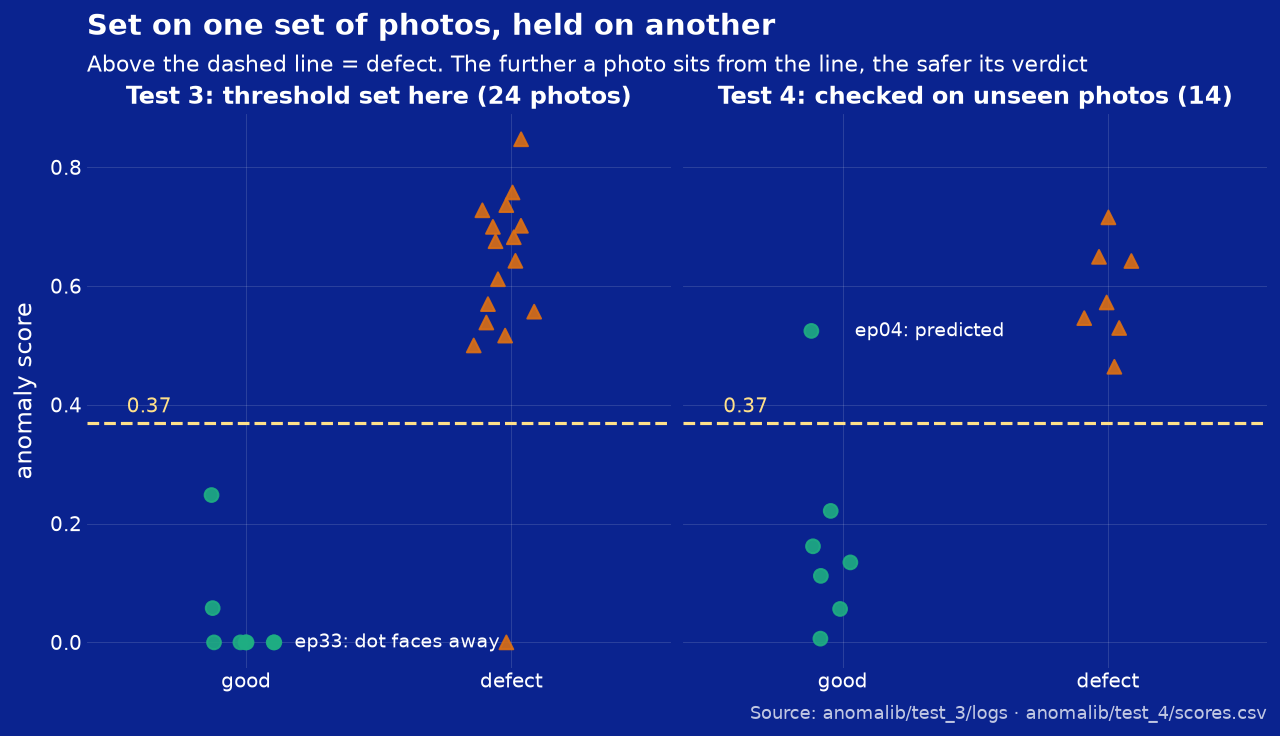
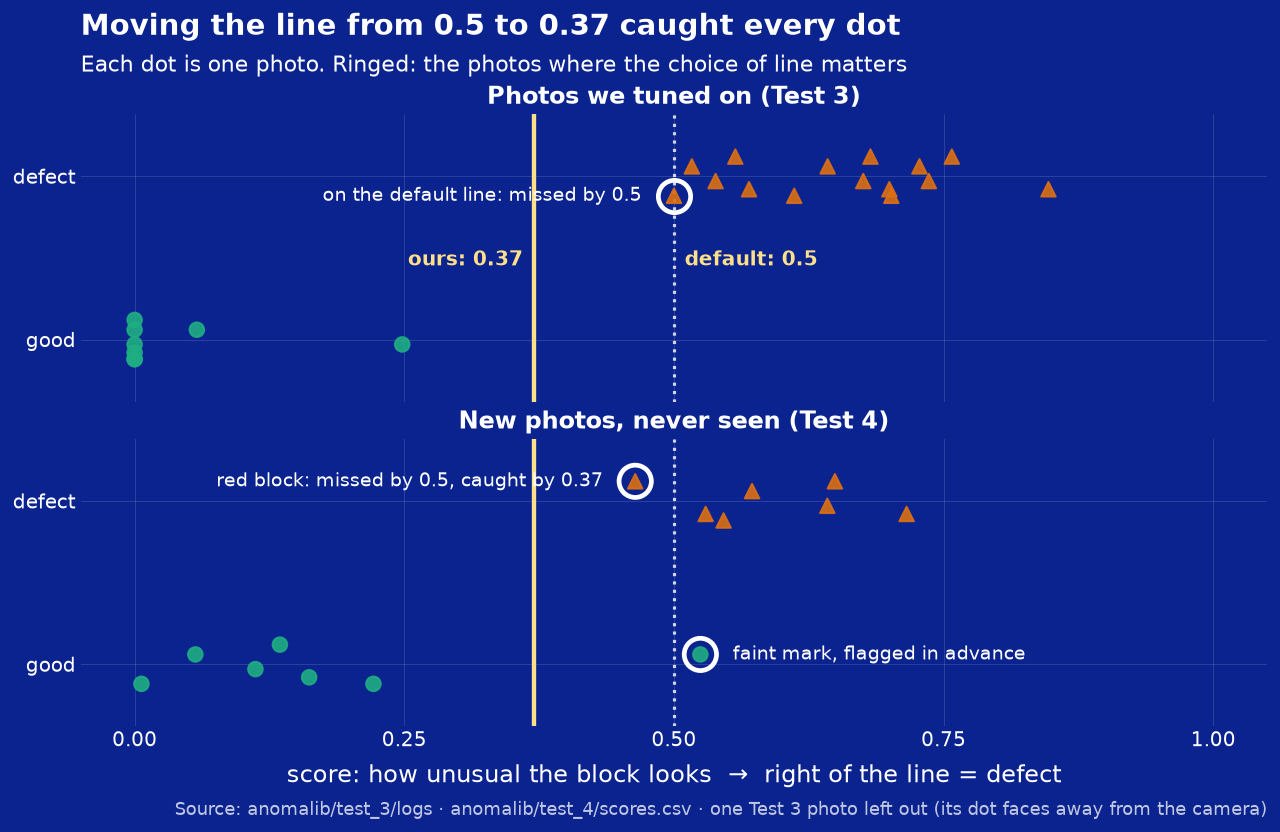
feat(docs): pitch-first Anomaly Scores page, threshold explained plainly
Journey tiles lead with the question. Camera choice becomes three camera
cards with one verdict each. The threshold section is four plain-English
expandable parts and one chart comparing Anomalib's default line (0.5)
with ours (0.37): the default misses a dot in both sets, ours catches
all of them. The held-out section leads with how the line was locked
before scoring. Limits and the ep05 story move to the Reflection page.

diff --git a/docs/detection.html b/docs/detection.html
@@ -14,25 +14,25 @@
 
   <!-- The journey: four tests, each answering one question -->
   <div class="journey">
-    <div class="step"><div class="tag">Baseline · Test 1</div><div class="q">Can it tell blocks apart?</div><div class="a">gap 0.044</div><div class="n">stand-in defect, claw camera, 24 photos</div></div>
-    <div class="step"><div class="tag">Baseline · Test 2.1</div><div class="q">Which camera?</div><div class="a">side +0.156</div><div class="n">claw camera's scores overlap</div></div>
-    <div class="step"><div class="tag">Stretch · Test 3</div><div class="q">Can it see a dot?</div><div class="a">gap 0.252</div><div class="n">15/15 visible dots, 8/8 good</div></div>
-    <div class="step"><div class="tag">Stretch · Test 4</div><div class="q">Does it hold on new photos?</div><div class="a">7/7 · 6/7</div><div class="n">dots caught · good passed, 14 unseen photos</div></div>
+    <div class="step"><div class="q">Can it tell blocks apart?</div><div class="a">gap 0.044</div><div class="n">stand-in defect, claw camera, 24 photos</div><div class="tag">Test 1 · baseline</div></div>
+    <div class="step"><div class="q">Which camera?</div><div class="a">side +0.156</div><div class="n">the claw camera's scores overlap</div><div class="tag">Test 2.1 · baseline</div></div>
+    <div class="step"><div class="q">Can it see a dot?</div><div class="a">gap 0.252</div><div class="n">15/15 visible dots, 8/8 good</div><div class="tag">Test 3 · stretch</div></div>
+    <div class="step"><div class="q">Does it hold on new photos?</div><div class="a">7/7 · 6/7</div><div class="n">dots caught · good passed, 14 unseen photos</div><div class="tag">Test 4 · stretch</div></div>
   </div>
 
   <!-- Headline: what the model sees -->
   <section class="panel">
     <h2>What the model sees</h2>
-    <p>Each tile is one block as the model sees it (left) and how unusual each part looks to the
-      model (right). Good blocks stay dark. The bright spot lands on the dot, including on a photo
-      the model had never seen.</p>
+    <p>Each tile shows one block as the model sees it (left) and how unusual each part looks to
+      the model (right). Good blocks stay dark. On a block with a dot, the bright spot lands right
+      on the dot, even on a photo the model had never seen.</p>
     <div class="heat">
-      <figure><img src="assets/charts/heat_good_ep25.png" alt="A green block with no dot; its heatmap is dark all over"><figcaption><b>Good block</b> · score 0.00 → passes</figcaption></figure>
-      <figure><img src="assets/charts/heat_small_dot_ep45.png" alt="A light green block with a small dot; the heatmap is bright exactly on the dot"><figcaption><b>Small dot</b> · score 0.73 → defect</figcaption></figure>
-      <figure><img src="assets/charts/heat_unseen_dot_v2_ep03.png" alt="An orange block with a dot, from the unseen Test 4 photos; the heatmap is bright on the dot"><figcaption><b>Unseen photo, dot</b> · score 0.64 → defect</figcaption></figure>
+      <figure><img src="assets/charts/heat_good_ep25.png" alt="A green block with no dot; its heatmap is dark all over"><figcaption><b>Good block</b> · score 0.00 → green bowl</figcaption></figure>
+      <figure><img src="assets/charts/heat_small_dot_ep45.png" alt="A light green block with a small dot; the heatmap is bright exactly on the dot"><figcaption><b>Small dot</b> · score 0.73 → pink bowl</figcaption></figure>
+      <figure><img src="assets/charts/heat_unseen_dot_v2_ep03.png" alt="An orange block with a dot, from the unseen Test 4 photos; the heatmap is bright on the dot"><figcaption><b>New photo, dot</b> · score 0.64 → pink bowl</figcaption></figure>
     </div>
     <div class="scale"><span>usual</span><img src="assets/charts/heat_scale.png" alt="Colour key from dark (usual) to bright yellow (unusual)"><span>unusual</span></div>
-    <p class="src">One fixed colour scale for every tile, so bright means the same thing in each. Model: PatchCore, Test 3 final.
+    <p class="src">Same colour scale for every tile, so bright means the same thing in each. Model: PatchCore, final version.
       Made by <code>scripts/make_heatmaps.py</code>.</p>
   </section>
 
@@ -105,64 +105,71 @@
 
   <section class="panel">
     <h2>Choosing the camera</h2>
-    <p>Before looking for dots, we tested all three cameras on the same blocks. The claw camera
-      mixed good and defect scores up; the side camera kept them apart, so the final model uses
-      the side camera.</p>
-    <img class="chart" src="assets/charts/cameras.png" alt="Dot plot of Test 2.1 scores for the claw, top and side cameras. On the claw camera one good photo scores above two defects; on the side camera every defect scores above every good photo.">
-  </section>
-
-  <section class="panel">
-    <h2>The threshold: where good ends and defect begins</h2>
-    <p><b>What it does.</b> The model gives every photo a score: near 0 means it looks like the
-      good blocks it learned from, and higher means stranger. The threshold is the single number
-      that turns a score into a decision. Above <b>0.37</b>, the block is a defect and goes to the
-      pink bowl. Everything the arm does after the photo depends on which side of that line the
-      score lands.</p>
-    <p><b>Why the middle is dangerous.</b> A score isn't fixed. Photograph the same block twice and
-      it moves a little: the light drifts, the camera's exposure changes, the block sits a millimetre
-      to one side. Far from the line, that wobble changes nothing. Close to the line, the same
-      wobble flips a good block to defect, or lets a dot through. So the goal isn't only to get
-      every test photo on the right side. It's to keep every photo <b>as far from the line as
-      possible</b>. Our measure is the distance from the line to the closest photo on each side.</p>
-    <p class="src">For the statistically minded: if the wobble is roughly normal with spread σ, a photo
-      a distance m from the line flips with probability Φ(−m/σ). That falls off faster than
-      exponentially, so doubling the margin more than halves the risk.</p>
-
-    <p><b>How we pushed scores away from the line.</b></p>
-    <ul>
-      <li><b>The camera:</b> the side camera, chosen above, because its scores didn't overlap.</li>
-      <li><b>The crop:</b> each photo is cut to the block alone (54 × 49 px), so the claw and the
-        background can't add noise.</li>
-      <li><b>Clean training data:</b> one "good" training photo, ep05, had a dot on it. It was
-        teaching the model that dots are normal. Removing it doubled the gap between the
-        closest good block and the closest defect, from 0.127 to 0.252.</li>
-      <li><b>Where the line goes:</b> halfway between the highest-scoring good block (0.248) and
-        the lowest-scoring defect (0.500), so each side gets the same margin, 0.126. Anomalib's
-        default of 0.5 sat exactly on a defect (ep34 scored 0.500), leaving it no margin at all.</li>
-    </ul>
-    <img class="chart" src="assets/charts/ep05.png" alt="Two panels of Test 3 scores, with and without ep05 in training. The empty band between the highest good score and the lowest defect score grows from 0.127 to 0.252.">
-
-    <p><b>Did we just fit the line to our own data?</b> Partly, yes: 0.37 was worked out from
-      Test 3's photos, so Test 3 can't prove it works. That's what Test 4 is for. We wrote down
-      the plan (photos, labels, the 0.37 threshold, and which photo we expected to cause trouble)
-      and committed it before scoring anything. Then we scored 14 photos the model had never seen,
-      once. Every dot was caught (7/7), and 6 of 7 good blocks passed. The closest defect sat 0.094
-      above the line; the closest passing good block, 0.149 below it.</p>
-    <img class="chart" src="assets/charts/threshold.png" alt="Two panels of scores with the 0.37 line. Left, Test 3: every visible defect above the line, every good block below. Right, Test 4: every defect above the line and one good block, ep04, just above it.">
-    <div class="heat">
-      <figure><img src="assets/charts/heat_false_alarm_ep04.png" alt="A yellow block labelled good; the heatmap is bright on a faint mark low on its face"><figcaption><b>The one miss, ep04</b> · labelled good, score 0.52. We flagged its faint mark before scoring; the model lit up on the same spot.</figcaption></figure>
-      <figure><img src="assets/charts/heat_highest_good_ep30.png" alt="An orange block with no dot; the heatmap is mildly warm along its base"><figcaption><b>Closest good block in Test 3, ep30</b> · score 0.25. The warmth is along the base, not on the face.</figcaption></figure>
+    <p>We gave all three cameras the same blocks and measured the <b>gap</b>: how far apart the
+      good and defect scores sit. Bigger is safer. Below zero means they overlap, so some good
+      blocks look worse than some defects.</p>
+    <div class="cams">
+      <figure class="cam"><img src="assets/img/cam_claw_cam.png" alt="The claw camera's view: a close-up from the gripper"><figcaption>Claw camera<span class="verdict bad">mixed up</span><span class="n">gap −0.32</span></figcaption></figure>
+      <figure class="cam"><img src="assets/img/cam_top_view.png" alt="The top camera's view of the table from above"><figcaption>Top camera<span class="verdict">+0.10</span><span class="n">apart</span></figcaption></figure>
+      <figure class="cam chosen"><img src="assets/img/cam_side_view.png" alt="The side camera's view of the block at table height"><figcaption>Side camera<span class="verdict">+0.16</span><span class="n">widest gap · chosen</span></figcaption></figure>
     </div>
-    <p class="src">Sources: <code>anomalib/test_3/findings.md</code>, <code>anomalib/test_4/PLAN.md</code>
-      (committed before scoring), <code>anomalib/test_4/findings.md</code>.</p>
+    <p class="src">Test 2.1: 5 good and 7 defect photos per camera · <code>anomalib/test_2/Test 2.1/findings.md</code></p>
   </section>
 
   <section class="panel">
-    <h2>Limits</h2>
-    <p>Small numbers: 24 photos in Test 3 and 14 in Test 4, so one photo moves a rate by 4 to 14
-      points. Every test ran offline on recorded photos. The final model was never run live on the
-      arm, and its speed was never measured on the robot's laptop. A dot on a face the side camera
-      can't see (ep33) can't be caught by any side-view model.</p>
+    <h2>The threshold: one line decides in or out</h2>
+    <details>
+      <summary><b>The threshold</b> · the line that decides if a block is in or out</summary>
+      <p>Every block gets one score. Below the line, it's good and goes to the green bowl. Above
+        the line, it's a defect and goes to the pink bowl. One number, one decision, and
+        everything the arm does next depends on it.</p>
+    </details>
+    <details>
+      <summary><b>The score</b> · how sure the model is that something's wrong</summary>
+      <p>The model learned only from good blocks. The score says how unusual a new block looks
+        next to them. Near 0, it looks just like the good blocks. The higher it goes, the surer
+        the model is that something's wrong.</p>
+    </details>
+    <details>
+      <summary><b>The lever</b> · move the line to stay clear of noise</summary>
+      <p>Photograph the same block twice and its score moves a little: the light shifts, the
+        camera adjusts, the block sits a millimetre to one side. A block far from the line keeps
+        its verdict. A block close to the line can flip. So we put the line where it's furthest
+        from both groups: halfway between the highest good score (0.25) and the lowest defect
+        score (0.50), at <b>0.37</b>. Anomalib's default of 0.5 sat right on top of a defect.</p>
+    </details>
+    <details>
+      <summary><b>Pushing scores away from the line</b> · make good and defect look as different as possible</summary>
+      <ul>
+        <li><b>The right camera.</b> The side camera, which kept good and defect furthest apart.</li>
+        <li><b>Only the block.</b> Every photo is cropped to the block, so the gripper and the
+          table can't add noise.</li>
+        <li><b>Trained the way it's used.</b> Training photos were taken by the same trigger and
+          cut with the same crop as the photos the robot takes.</li>
+        <li><b>Every colour.</b> Training covered all five block colours, so a colour on its own
+          doesn't look unusual.</li>
+      </ul>
+    </details>
+    <img class="chart" src="assets/charts/threshold.png" alt="Scores of every photo along a line from 0 to 1, with the default line at 0.5 and ours at 0.37. On the tuning photos the default misses one dot that sits exactly on 0.5. On new photos the default misses the red block at 0.46; ours catches every dot.">
+    <table class="compare">
+      <tr><th></th><th>Default line 0.5</th><th>Our line 0.37</th></tr>
+      <tr><td>Dots caught, photos we tuned on</td><td>14/15</td><td><b>15/15</b></td></tr>
+      <tr><td>Dots caught, new photos</td><td>6/7</td><td><b>7/7</b></td></tr>
+      <tr><td>Good blocks passed, both sets</td><td>14/15</td><td>14/15</td></tr>
+    </table>
+  </section>
+
+  <section class="panel">
+    <h2>Tested on photos it had never seen</h2>
+    <p><b>We locked the line at 0.37 before looking at any new photo, then scored 14 new photos
+      once.</b> We wrote the plan down first (which photos, their labels, the line, and the one
+      photo we expected to cause trouble) and saved it in the project's history, so the line
+      couldn't be nudged after seeing the results. Every dot was caught. The one false alarm was
+      the block we'd flagged in advance, and the model lit up on the same faint mark.</p>
+    <div class="heat">
+      <figure><img src="assets/charts/heat_false_alarm_ep04.png" alt="A yellow block labelled good; the heatmap is bright on a faint mark low on its face"><figcaption><b>The one false alarm</b> · score 0.52. Flagged before scoring for a faint mark; the model found it too.</figcaption></figure>
+    </div>
+    <p class="src">Plan saved before scoring: <code>anomalib/test_4/PLAN.md</code> · results: <code>anomalib/test_4/findings.md</code></p>
   </section>
 </main>
 <script src="assets/retro.js"></script>

diff --git a/docs/assets/retro.css b/docs/assets/retro.css
@@ -159,3 +159,29 @@ code { overflow-wrap: anywhere; }   /* long file paths wrap instead of widening 
 .chart { display: block; width: 100%; height: auto; margin: 10px 0 4px; border: 2px inset rgba(255,255,255,.5); }
 .panel ul { margin: 0 0 8px; padding-left: 20px; }
 .panel li { margin-bottom: 4px; }
+
+/* Journey tiles: question first, test name last */
+.step .q { font-size: 14px; font-weight: bold; margin: 0 0 6px; }
+.step .tag { margin-top: 6px; }
+
+/* Camera cards */
+.cams { display: flex; flex-wrap: wrap; gap: 12px; margin: 8px 0; }
+.cam { margin: 0; flex: 1 1 170px; background: rgba(0, 10, 90, .45); border: 2px outset rgba(255,255,255,.5); padding: 6px; }
+.cam img { width: 100%; aspect-ratio: 4 / 3; object-fit: cover; display: block; }
+.cam figcaption { font-size: 13px; margin-top: 6px; }
+.cam .verdict { display: block; font-size: 24px; font-weight: bold; color: var(--yellow); }
+.cam .verdict.bad { color: #ffb3b3; }
+.cam .n { display: block; font-size: 11px; opacity: .8; }
+.cam.chosen { border-color: var(--yellow); box-shadow: 0 0 0 2px var(--yellow); }
+
+/* Expandable explanations */
+details { border: 1px solid rgba(255,255,255,.35); background: rgba(0, 10, 90, .35); margin: 0 0 6px; padding: 6px 10px; }
+summary { cursor: pointer; font-size: 13px; }
+summary b { color: var(--yellow); }
+details[open] summary { margin-bottom: 6px; }
+details p, details ul { font-size: 13px; }
+
+/* Default-vs-ours table */
+.panel table.compare { width: auto; margin-top: 6px; }
+.panel table.compare td:not(:first-child), .panel table.compare th:not(:first-child) { text-align: center; }
+.heat figure { max-width: 340px; }   /* a lone tile stays tile-sized */

diff --git a/docs/reflection.html b/docs/reflection.html
@@ -28,6 +28,10 @@
     <h2>Lessons as beginners</h2>
     <p class="hint">Draw the system first; integrate in small steps; guard the hardware; fail loudly; commit as you go; never ship placeholder numbers.</p>
   </section>
+  <section class="slot">
+    <h2>Limits of the defect model</h2>
+    <p class="hint">Moved from the Anomaly Scores page. Small numbers: 24 photos in Test 3 and 14 in Test 4, so one photo moves a rate by 4 to 14 points. Every test ran offline on recorded photos; the final model never ran live on the arm, and its speed was never measured on the robot's laptop. A dot on a face the side camera can't see (ep33) can't be caught by any side-view model. Parked story: removing ep05 (a dotted block in the good training set) doubled the gap, 0.127 → 0.252 (chart: assets/charts/ep05.png).</p>
+  </section>
 </main>
 <script src="assets/retro.js"></script>
 </body>

diff --git a/scripts/make_site_charts.py b/scripts/make_site_charts.py
@@ -19,9 +19,9 @@ from pathlib import Path
 import pandas as pd
 from plotnine import (
     aes, annotate, element_blank, element_line, element_rect, element_text, facet_wrap,
-    geom_hline, geom_line, geom_point, geom_rect, geom_segment, geom_text, ggplot,
-    labs, position_jitter, scale_color_manual, scale_shape_manual, scale_x_discrete,
-    scale_y_continuous, theme, theme_minimal,
+    geom_hline, geom_line, geom_vline, geom_point, geom_rect, geom_segment, geom_text, ggplot,
+    labs, position_jitter, scale_color_manual, scale_shape_manual, scale_x_continuous, scale_x_discrete,
+    scale_y_continuous, scale_y_discrete, theme, theme_minimal,
 )
 
 REPO = Path(__file__).resolve().parent.parent
@@ -206,44 +206,79 @@ def chart_ep05():
 
 
 # ---------------------------------------------------------------------------------------------
-# 4. Threshold set on Test 3, checked on Test 4
+# 4. Anomalib's default line (0.5) against ours (0.37), on the tuning photos and on new photos
 # ---------------------------------------------------------------------------------------------
+DEFAULT_LINE = 0.5
+
+
 def chart_threshold():
+    sets = ["Photos we tuned on (Test 3)", "New photos, never seen (Test 4)"]
     test3 = read_log_scores(REPO / "anomalib/test_3/logs/side_view_no_ep05.log")
-    test3["test"] = "Test 3: threshold set here (24 photos)"
+    test3 = test3[test3["photo"] != "theo_v2_ep33"].copy()   # dot faces away from the camera
+    test3["set"] = sets[0]
     test4 = pd.read_csv(REPO / "anomalib/test_4/scores.csv")
     test4["photo"] = test4["photo"].str.replace(".png", "", regex=False)
     test4 = test4[["photo", "label", "score"]].copy()
-    test4["test"] = "Test 4: checked on unseen photos (14)"
+    test4["set"] = sets[1]
     scores = pd.concat([test3, test4])
-    order = ["Test 3: threshold set here (24 photos)", "Test 4: checked on unseen photos (14)"]
-    scores["test"] = pd.Categorical(scores["test"], categories=order)
+    scores["set"] = pd.Categorical(scores["set"], categories=sets)
 
-    notes = pd.DataFrame([
-        {"test": order[0], "label": "defect", "score": 0.0, "text": "ep33: dot faces away  "},
-        {"test": order[1], "label": "good", "score": 0.524, "text": "  ep04: predicted"},
+    # Print the results under each line so the page's table can be checked against them
+    for name in sets:
+        part = scores[scores["set"] == name]
+        for line in (DEFAULT_LINE, THRESHOLD):
+            caught = ((part["label"] == "defect") & (part["score"] > line)).sum()
+            passed = ((part["label"] == "good") & (part["score"] <= line)).sum()
+            print(f"  {name}, line {line}: dots caught {caught}/{(part['label'] == 'defect').sum()}, "
+                  f"good passed {passed}/{(part['label'] == 'good').sum()}")
+
+    # Rows: good at y = 1, defect at y = 2. Each photo gets a small fixed vertical offset (cycling
+    # through 5 positions) so dots with similar scores don't sit on top of each other, and so the
+    # rings below can be drawn exactly on the dots they mark.
+    scores = scores.sort_values(["set", "label", "score"]).reset_index(drop=True)
+    offsets = [-0.12, 0.06, -0.03, 0.12, -0.08]
+    scores["y"] = scores["label"].map({"good": 1, "defect": 2}).astype(float)
+    scores["y"] = scores["y"] + [offsets[i % 5] for i in range(len(scores))]
+
+    rings = scores[scores["photo"].isin(["theo_v2_ep34", "theo_v2_ep04", "theo_ep04"])].copy()
+    notes = rings.copy()
+    notes["text"] = notes["photo"].map({
+        "theo_v2_ep34": "on the default line: missed by 0.5",
+        "theo_v2_ep04": "red block: missed by 0.5, caught by 0.37",
+        "theo_ep04": "faint mark, flagged in advance",
+    })
+    notes["ha"] = notes["photo"].map({"theo_v2_ep34": "right", "theo_v2_ep04": "right", "theo_ep04": "left"})
+    notes["x"] = notes["score"] + notes["ha"].map({"right": -0.03, "left": 0.03})
+
+    line_labels = pd.DataFrame([
+        {"set": sets[0], "x": THRESHOLD - 0.01, "text": "ours: 0.37", "ha": "right"},
+        {"set": sets[0], "x": DEFAULT_LINE + 0.01, "text": "default: 0.5", "ha": "left"},
     ])
-    notes["test"] = pd.Categorical(notes["test"], categories=order)
-    notes["hjust"] = ["right", "left"]   # ep33's label sits to its left so it stays inside the panel
+    line_labels["set"] = pd.Categorical(line_labels["set"], categories=sets)
 
     plot = (
-        ggplot(scores, aes("label", "score", color="label", shape="label"))
-        + geom_hline(yintercept=THRESHOLD, color=LINE, linetype="dashed", size=0.8)
-        + geom_point(size=3, alpha=0.9, position=position_jitter(width=0.15, height=0, random_state=2))
-        + geom_text(aes(x="label", y="score", label="text", ha="hjust"), data=notes, color=INK, size=8.5,
+        ggplot(scores, aes("score", "y", color="label", shape="label"))
+        + geom_vline(xintercept=DEFAULT_LINE, color=INK, linetype="dotted", size=0.8, alpha=0.8)
+        + geom_vline(xintercept=THRESHOLD, color=LINE, size=1.1)
+        + geom_point(size=3.2, alpha=0.9)
+        + geom_point(data=rings, size=7, shape="o", fill="none", color=INK, stroke=1.2)
+        + geom_text(aes(x="x", y="y", label="text", ha="ha"), data=notes, color=INK, size=8.5,
                     inherit_aes=False)
-        + annotate("text", x=0.55, y=THRESHOLD + 0.03, label="0.37", color=LINE, size=9, ha="left")
-        + facet_wrap("test")
+        + geom_text(aes(x="x", label="text", ha="ha"), y=1.5, data=line_labels, color=LINE, size=9,
+                    inherit_aes=False, fontweight="bold")
+        + facet_wrap("set", ncol=1)
         + scale_color_manual(values=COLOURS)
         + scale_shape_manual(values=SHAPES)
-        + scale_x_discrete(limits=["good", "defect"])
-        + labs(x="", y="anomaly score",
-               title="Set on one set of photos, held on another",
-               subtitle="Above the dashed line = defect. The further a photo sits from the line, the safer its verdict",
-               caption="Source: anomalib/test_3/logs · anomalib/test_4/scores.csv")
+        + scale_y_continuous(breaks=[1, 2], labels=["good", "defect"], limits=(0.7, 2.3))
+        + scale_x_continuous(limits=(0, 1), breaks=[0, 0.25, 0.5, 0.75, 1])
+        + labs(x="score: how unusual the block looks  →  right of the line = defect", y="",
+               title="Moving the line from 0.5 to 0.37 caught every dot",
+               subtitle="Each dot is one photo. Ringed: the photos where the choice of line matters",
+               caption="Source: anomalib/test_3/logs · anomalib/test_4/scores.csv · "
+                       "one Test 3 photo left out (its dot faces away from the camera)")
         + site_theme()
     )
-    save(plot, "threshold.png", 8, 4.6)
+    save(plot, "threshold.png", 8, 5.2)
 
 
 if __name__ == "__main__":
